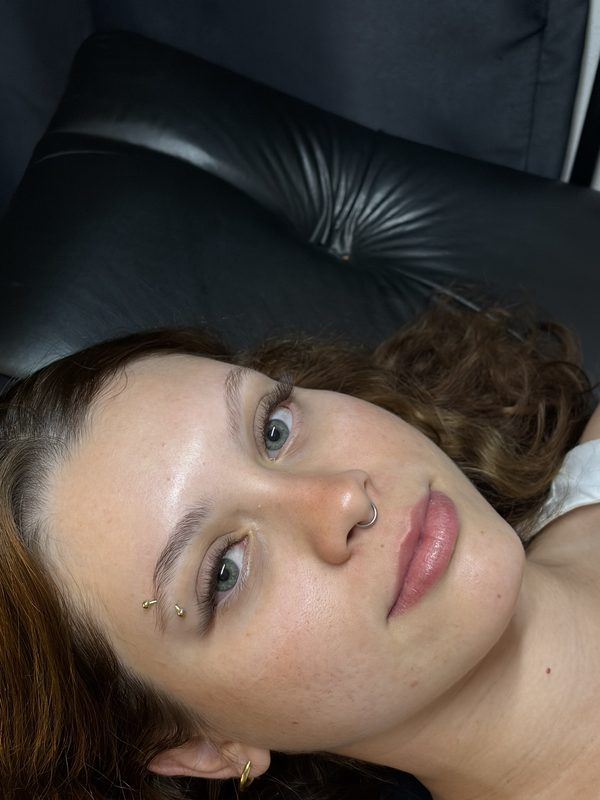
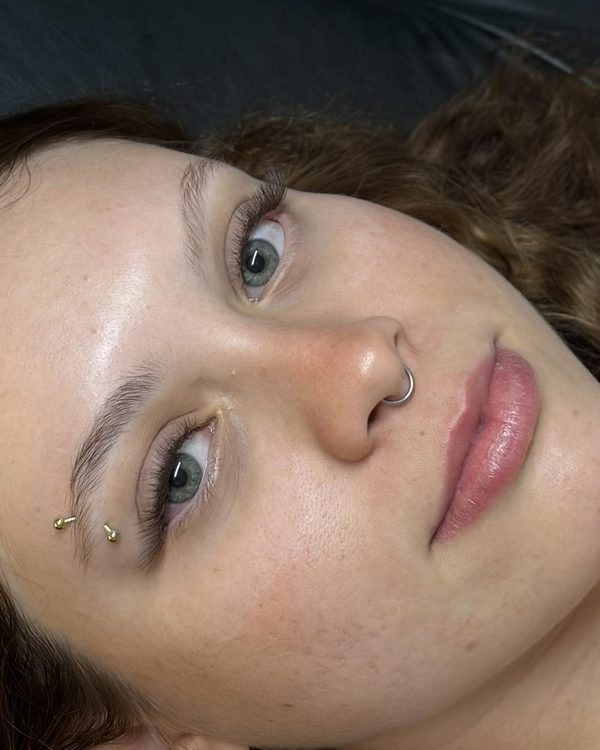
Atualizando-website

diff --git a/index.html b/index.html
@@ -105,13 +105,13 @@
       <p>Trabalhos reais, feitos no estúdio — cada resultado é único, do jeito que cada cliente é.</p>
     </div>
     <div class="gallery-grid">
-      <div class="gallery-item reveal"><img src="images/gallery1.jpg" alt="Resultado combo cílios e sobrancelha em cliente de cabelo cacheado" loading="lazy"><span class="gallery-cap">Combo completo</span></div>
-      <div class="gallery-item reveal"><img src="images/gallery2.jpg" alt="Detalhe de sobrancelha e cílios finalizados" loading="lazy"><span class="gallery-cap">Detalhe do olhar</span></div>
-      <div class="gallery-item reveal"><img src="images/gallery3.jpg" alt="Resultado de cílios com olhos verdes" loading="lazy"><span class="gallery-cap">Efeito alongado</span></div>
-      <div class="gallery-item reveal"><img src="images/gallery4.jpg" alt="Cliente após procedimento de lash design com unhas decoradas" loading="lazy"><span class="gallery-cap">Resultado do dia</span></div>
-      <div class="gallery-item reveal"><img src="images/gallery5.jpg" alt="Detalhe de aplicação de cílios" loading="lazy"><span class="gallery-cap">No detalhe</span></div>
-      <div class="gallery-item reveal"><img src="images/gallery6.jpg" alt="Resultado de extensão de cílios fio a fio, olhar aberto" loading="lazy"><span class="gallery-cap">Fio a fio · natural</span></div>
-      <div class="gallery-item reveal"><img src="images/gallery7.jpg" alt="Resultado final de design de sobrancelha e cílios" loading="lazy"><span class="gallery-cap">Sobrancelha + cílios</span></div>
+      <div class="gallery-item reveal"><img src="images/gallery1.jpg" alt="Resultado de extensão de cílios fio a fio, detalhe do olhar" loading="lazy"></div>
+      <div class="gallery-item reveal"><img src="images/gallery2.jpg" alt="Resultado combo cílios e sobrancelha em cliente de cabelo cacheado" loading="lazy"></div>
+      <div class="gallery-item reveal"><img src="images/gallery3.jpg" alt="Resultado de cílios com olhos verdes" loading="lazy"></div>
+      <div class="gallery-item reveal"><img src="images/gallery4.jpg" alt="Cliente após procedimento de lash design com unhas decoradas" loading="lazy"></div>
+      <div class="gallery-item reveal"><img src="images/gallery5.jpg" alt="Detalhe de aplicação de cílios" loading="lazy"></div>
+      <div class="gallery-item reveal"><img src="images/gallery6.jpg" alt="Resultado de extensão de cílios fio a fio, olhar aberto" loading="lazy"></div>
+      <div class="gallery-item reveal"><img src="images/gallery7.jpg" alt="Resultado final de design de sobrancelha e cílios" loading="lazy"></div>
     </div>
   </div>
 </section>

diff --git a/css/style.css b/css/style.css
@@ -332,14 +332,6 @@
     transition:opacity .4s ease;
   }
   .gallery-item:hover::after{ opacity:1; }
-  .gallery-cap{
-    position:absolute; left:16px; bottom:14px;
-    color:#fff; font-size:0.8rem; font-weight:600;
-    opacity:0; transform:translateY(8px);
-    transition:opacity .4s ease, transform .4s ease;
-    z-index:2;
-  }
-  .gallery-item:hover .gallery-cap{ opacity:1; transform:translateY(0); }
 
   /* ---------- CTA BAND ---------- */
   .cta-band{
@@ -390,9 +382,6 @@
     .gallery-item:nth-child(1){ grid-column:span 2; grid-row:span 2; }
     .gallery-item:nth-child(6){ grid-row:span 1; }
     section{ padding:72px 0; }
-    /* hover reveals don't work on touch, so keep captions visible */
-    .gallery-cap{ opacity:1; transform:translateY(0); }
-    .gallery-item::after{ opacity:1; background:linear-gradient(180deg, transparent 45%, rgba(43,30,51,0.5) 100%); }
   }
 
   @media (max-width: 520px){

diff --git a/README.md b/README.md
@@ -1,4 +1,3 @@
-<<<<<<< HEAD
 # Alias Paiva Beauty
 
 Site portfólio da Alias Paiva Beauty, estúdio de lash design e sobrancelhas em Ipatinga, MG.
@@ -20,33 +19,3 @@ Uma página única, pensada para apresentar o trabalho da Alias e facilitar o ag
 - Totalmente responsivo, funciona bem em celular, tablet e computador
 - Ícone personalizado (a mariposa da marca) na aba do navegador
 - Botão de WhatsApp já com mensagem pronta para a cliente só confirmar o envio
-=======
-Alias Paiva Beauty
-
-Site portfólio da Alias Paiva Beauty, estúdio de lash design e sobrancelhas em Ipatinga, MG.
-
-Sobre o site
-
-Uma página única, pensada para apresentar o trabalho da Alias e facilitar o agendamento de clientes. O visual segue uma paleta em lilás delicado com detalhes dourados, tipografia serifada elegante e uma mariposa como símbolo de marca.
-
-O que tem na página
-
-Início — apresentação com foto em destaque e frase de posicionamento: "Especialista em transformar a sua autoestima"
-
-Sobre — um pouco da história e do cuidado por trás do trabalho, com foto do estúdio
-
-Serviços — extensão de cílios fio a fio e design de sobrancelhas
-
-Galeria — fotos reais de resultados feitos no estúdio
-
-Agendamento — botões espalhados pela página que levam direto para o WhatsApp, além do link do Instagram
-
-Detalhes
-
-Totalmente responsivo, funciona bem em celular, tablet e computador
-
-Ícone personalizado (a mariposa da marca) na aba do navegador
-
-Botão de WhatsApp já com mensagem pronta para a cliente só confirmar o envio
-
->>>>>>> c99d0f8ac52d1ea31602301966728c504871088e
